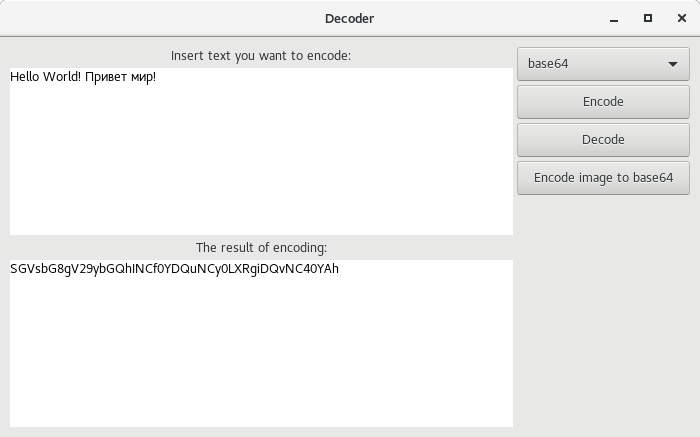
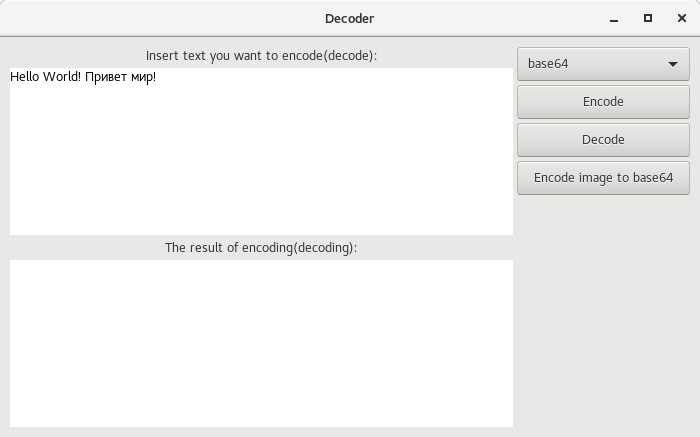
Changed labels of TextViews. Provided new screenshot.

Changed region(s): [[0.0, 0.5355, 0.51, 0.6247], [0.21, 0.119, 0.54, 0.1487]]

diff --git a/app.py b/app.py
@@ -26,7 +26,7 @@ class MainWindow(Gtk.Window):
         rbox = Gtk.Box(orientation=Gtk.Orientation.VERTICAL, spacing=4)
         mainbox.pack_start(rbox, False, False, 0)
 
-        label = Gtk.Label("Insert text you want to encode:")
+        label = Gtk.Label("Insert text you want to encode(decode):")
         lbox.pack_start(label, False, False, 0)
 
         self.textview = Gtk.TextView()
@@ -35,7 +35,7 @@ class MainWindow(Gtk.Window):
         scrolledwindow.add(self.textview)
         lbox.pack_start(scrolledwindow, True, True, 0)
 
-        label2 = Gtk.Label("The result of encoding:")
+        label2 = Gtk.Label("The result of encoding(decoding):")
         lbox.pack_start(label2, False, False, 0)
 
         self.textview_result = Gtk.TextView()
